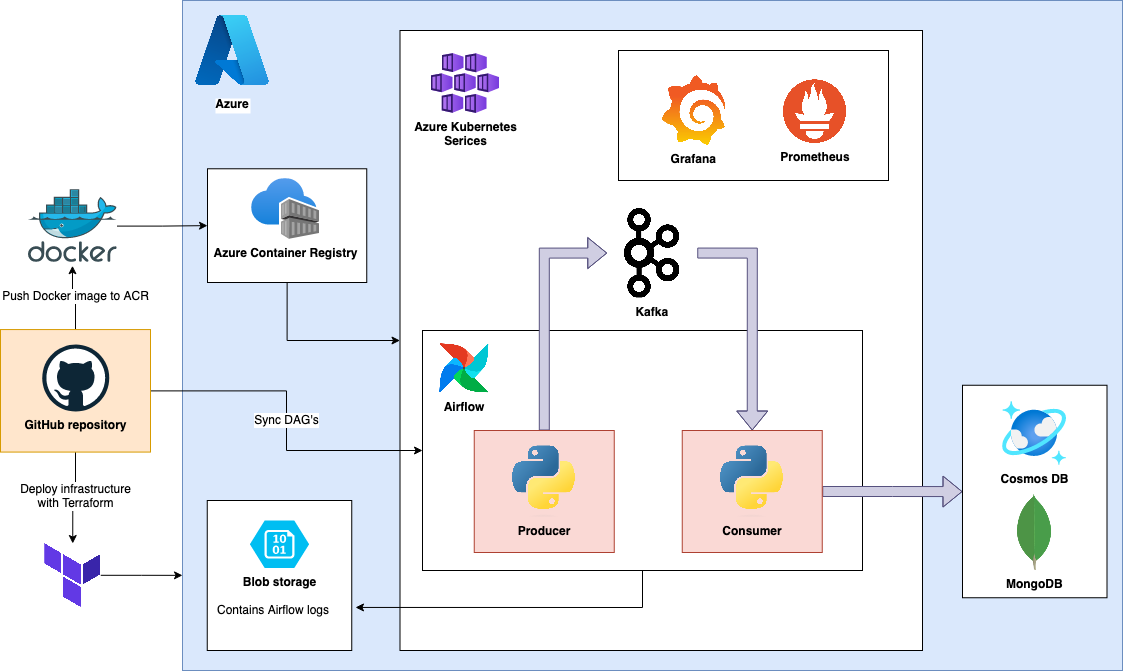
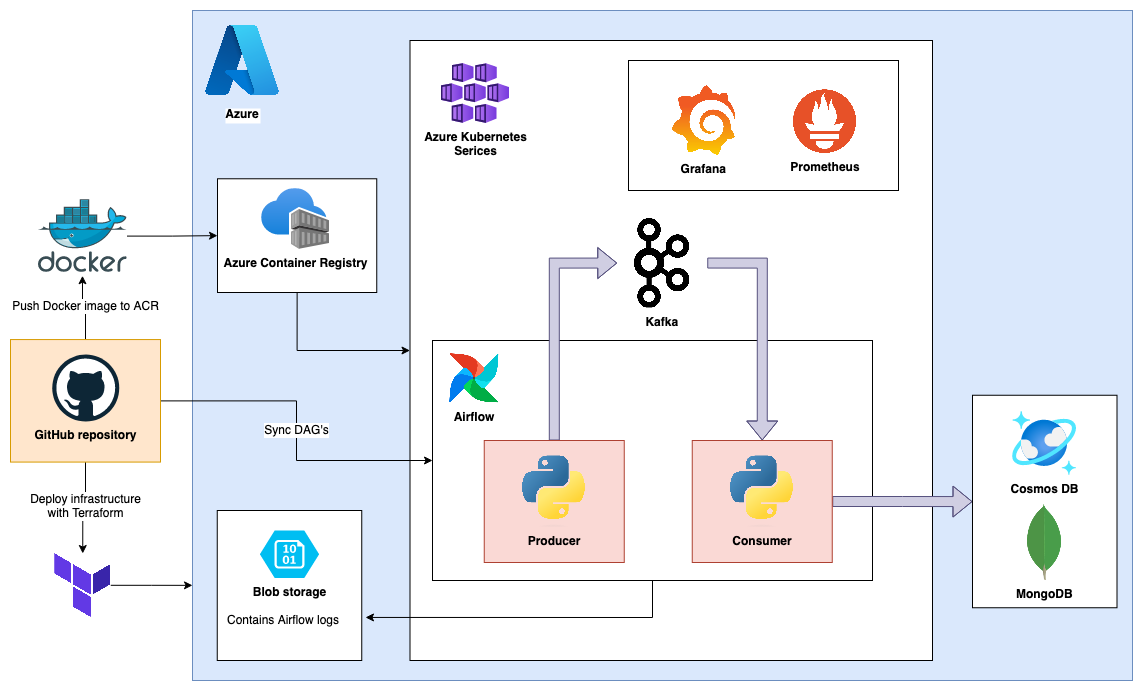
replaced design

Changed region(s): [[0.0, 0.0, 1.0, 1.0], [0.4675, 0.4769, 0.4987, 0.5067]]

diff --git a/README.md b/README.md
@@ -1,9 +1,5 @@
 # kafka-dev
 
-![Alt text](./architecture.svg)
-
----
-
 ![Alt text](./architecture.png)
 
 ## Prerequisites
